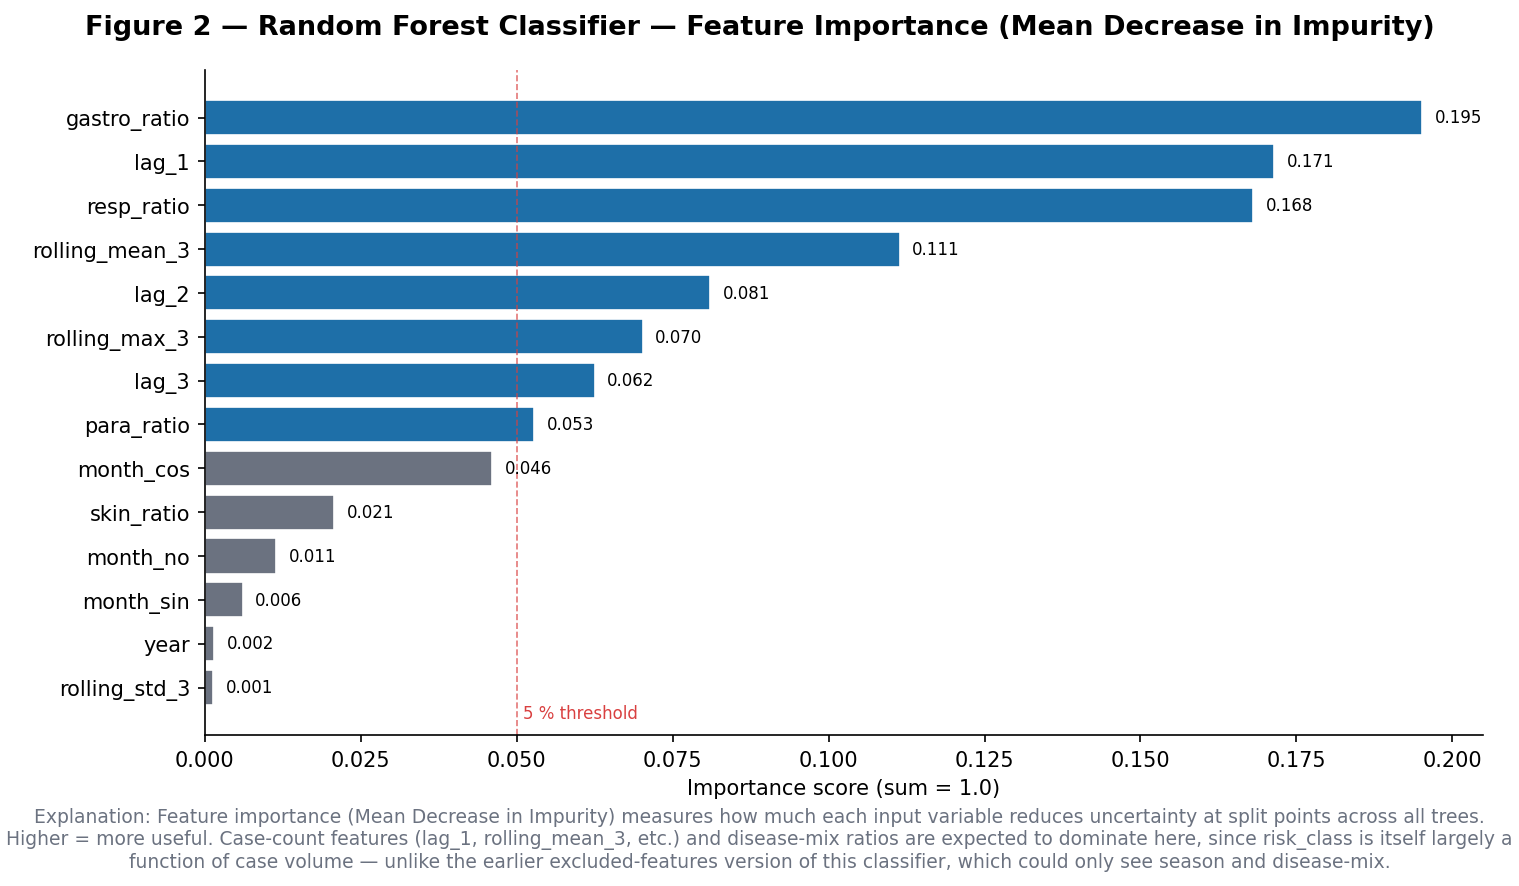
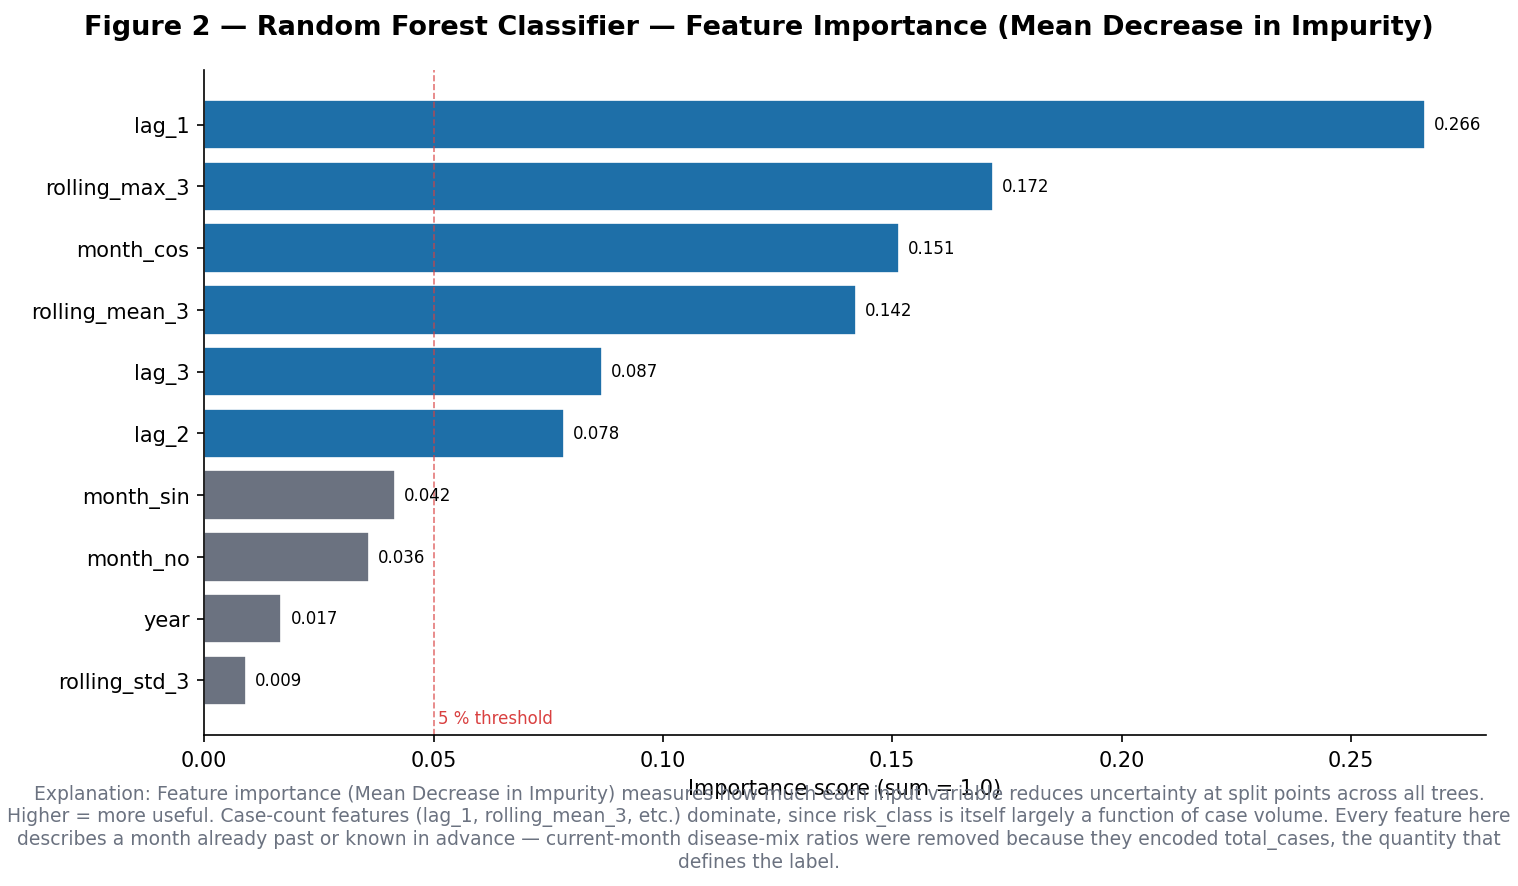
Stop the risk classifier reading its own answer
The classifier scored a perfect 100.0% held-out, which was target leakage
rather than a result. skin_ratio/para_ratio/resp_ratio/gastro_ratio are
current-month category counts divided by total_cases, and risk_class is
defined as a band on total_cases. Four ratios over one shared small-integer
denominator encode that denominator, so the model could reconstruct the label
from its own inputs. Ablation: those four features ALONE scored 99.4%,
against a 67.7% majority-class baseline.

The inflated score was not the worst of it. predict_risk() carries the mix
ratios forward unchanged when scoring a future month, because next month's
mix is unknowable -- so 43.7% of the decision weight was a month stale at the
moment of prediction, more than lag_1, the feature the ARIMA forecast
actually updates. A barangay coming off a heavy month handed the classifier a
high-volume fingerprint: measured across the barangays with a resolvable flip
point, it fired High at a forecast of 12-15, and the threshold moved per
barangay according to whatever last month's mix happened to be. The band
definition puts High at 16. Without those features the flip lands on 16 in
every barangay measured, so two barangays with the same forecast now get the
same label.

Held-out accuracy is 97.2%. Lagging the ratios by a month instead of dropping
them was tried and came out slightly worse (97.1%), so they were carrying
leaked answer rather than signal.
[…]

diff --git a/api/analytics/arima_service.py b/api/analytics/arima_service.py
@@ -1,13 +1,22 @@
 """
-BVetter Analytics Backend — v3.2 (RF-as-classifier realignment applied to v3.1)
+BVetter Analytics Backend — v3.3 (leaked features removed from the classifier)
 =======================================================================
-Changes from v3.1:
+Changes from v3.2:
+  MODEL-3  : The four disease-mix ratio features are removed from
+             FEATURE_COLS. They were current-month category counts over
+             total_cases, and risk_class is a band on total_cases, so the
+             classifier could reconstruct the label from its own inputs --
+             it scored a perfect 100.0% held-out, and those four features
+             alone scored 99.4% against a 67.7% baseline. Held-out accuracy
+             is now 97.2%, and the High threshold lands on the band
+             definition instead of firing early. See FEATURE_COLS.
+Changes from v3.1 (retained):
   MODEL-1  : All-disease risk classification is a RandomForestClassifier again
              (it started as one, was replaced with a rule-based threshold after
              a real bug -- see get_all_disease_models() for the full history).
-             This version includes case-count features in training, which the
-             buggy version deliberately excluded; that's what caused the bug,
-             not the idea of a classifier itself.
+             This version includes past-only case-count features in training,
+             which the buggy version deliberately excluded; that's what caused
+             the bug, not the idea of a classifier itself.
   MODEL-2  : RandomForestRegressor removed entirely, from both the all-disease
              and disease-specific pipelines. It never actually produced a live
              forecast (RF-for-monthly was built, benchmarked poorly, and
@@ -592,11 +601,34 @@ def vaccination_forecast_barangay():
 # training this time, unlike an earlier version of this same classifier)
 # ════════════════════════════════════════════════════════════════════════
 
+# Every feature here describes months BEFORE the one being classified:
+# lag_1/2/3 and the rolling stats are all .shift(1) (see _add_features), and
+# the calendar terms are known in advance.
+#
+# skin_ratio / para_ratio / resp_ratio / gastro_ratio used to be here and were
+# removed. They are computed from the CURRENT month's category counts over
+# total_cases -- and risk_class is defined as a band on total_cases. Four
+# ratios sharing one small-integer denominator encode that denominator, so the
+# classifier could reconstruct the label from its own inputs. Measured: those
+# four features alone scored 99.4% and the full set scored a perfect 100.0%,
+# against a 67.7% majority-class baseline.
+#
+# The damage was not only the inflated score. predict_risk() carries the mix
+# ratios forward unchanged for a future month (next month's mix is unknowable),
+# so 43.7% of the decision weight was one month stale at prediction time --
+# more than lag_1, the one feature the ARIMA forecast actually updates. A
+# barangay coming off a heavy month handed the model a high-volume fingerprint
+# and got flagged High at a forecast of 12-15, where the band definition says
+# High starts at 16. Without them the flip lands on 16 in every barangay
+# measured, instead of varying by whatever last month's mix happened to be.
+#
+# Lagging the ratios by a month instead of dropping them was tried and scored
+# slightly worse than removing them outright (97.1% against 97.7%), so the
+# signal was carrying leaked answer rather than real predictive weight.
 FEATURE_COLS = [
     "lag_1", "lag_2", "lag_3",
     "rolling_mean_3", "rolling_max_3", "rolling_std_3",
     "month_sin", "month_cos", "month_no", "year",
-    "skin_ratio", "para_ratio", "resp_ratio", "gastro_ratio",
 ]
 
 _all_disease_models = {}
@@ -1036,22 +1068,31 @@ def get_all_disease_models():
         {FEATURE_COLS[i]: round(float(v), 4) for i, v in enumerate(rf_cls.feature_importances_)}.items(),
         key=lambda x: x[1], reverse=True))
 
-    # This classifier started as exactly this design (case-count features
-    # included). It was later changed to deliberately EXCLUDE lag/rolling
-    # case-count features, on the theory that seeing them let it trivially
-    # reconstruct risk_class and "inflate" accuracy to 100%. In practice,
-    # risk_class in the source data barely overlaps by case count (Low ~9,
-    # Medium 10-17, High 16-30) -- it IS essentially a threshold on volume,
-    # so hiding volume from the classifier didn't reduce overfitting, it
-    # removed the one signal that defines the label. Real-world result: a
-    # barangay with the highest case count in the whole dataset (Tiaong,
-    # consistently 21-30/month, always "High" in the source data) got
-    # classified "Low/stable" because the model could only see season +
-    # disease-mix, not volume. That version was replaced with a transparent
-    # threshold rule instead of fixing the actual cause. This version keeps
-    # the classifier, restores the case-count features, and keeps the
-    # stratified split + SMOTE (that part of the excluded-features design was
-    # never the problem -- the "Low" class really does only have ~6 rows).
+    # Feature history, because this has been wrong in both directions.
+    #
+    # v1 included the lag/rolling case-count features. v2 removed them, on the
+    # theory that seeing case counts let the model trivially reconstruct
+    # risk_class. That was the wrong cut: risk_class IS a band on volume, so
+    # hiding volume removed the one legitimate signal that defines the label,
+    # and Tiaong -- the highest-volume barangay in the dataset, always "High"
+    # in the source -- came out "Low/stable". v3 restored them.
+    #
+    # v3 still scored a perfect 100.0%, which was the real tell. The leak was
+    # never lag/rolling (those are .shift(1), strictly past). It was the four
+    # disease-mix ratios: current-month category counts over total_cases, and
+    # total_cases is what defines the label. Ablation confirmed it -- the four
+    # ratios ALONE scored 99.4%, against a 67.7% majority baseline.
+    #
+    # v4 (this one) keeps the past-only case-count features and drops the four
+    # ratios; see FEATURE_COLS for the measured effect on prediction
+    # calibration. Held-out accuracy is now 97.2% rather than a perfect score.
+    # The stratified split + SMOTE stay: that part of v2 was never the problem,
+    # the "Low" class really does have only ~6 rows.
+    #
+    # Low remains unlearnable and is reported rather than hidden: with 6 Low
+    # rows in 891, the held-out fold contains 1, and the model misses it
+    # (precision and recall both 0.0). No resampling fixes 6 real examples.
+    # Treat Low as undetected, not as detected-with-low-confidence.
     _all_disease_models = {
         "df": df, "classifier": rf_cls, "label_encoder": le,
         # Trust-gated frame (same rule ARIMA already uses -- see _arima_safe_frame)
@@ -1081,13 +1122,19 @@ def get_all_disease_models():
         "risk_note": (
             f"Risk classification is a RandomForestClassifier trained on "
             f"{len(df_cls)} risk_class-labeled rows from Barangay_Disease_Monthly, "
-            "including case-count features (lag_1/2/3, rolling stats) -- an earlier "
-            "version of this classifier excluded those features and, as a result, "
-            "misclassified Tiaong (the highest-volume barangay in the dataset) as "
-            "Low risk, because volume was the one signal hidden from it. Train/test "
-            "split is stratified by risk_class (not chronological), and SMOTE "
-            "oversampling is applied to the training fold only, because the Low "
+            "using past-only case-count features (lag_1/2/3 and rolling stats, all "
+            "shifted one month) plus calendar terms. An earlier version excluded the "
+            "case-count features entirely and misclassified Tiaong (the highest-volume "
+            "barangay in the dataset) as Low risk, because volume was the one signal "
+            "hidden from it; a later version added current-month disease-mix ratios "
+            "and scored a perfect 100%, which was target leakage -- those ratios are "
+            "category counts over total_cases, and total_cases defines the label. "
+            "Train/test split is stratified by risk_class (not chronological), and "
+            "SMOTE oversampling is applied to the training fold only, because the Low "
             f"class has only ~6 of {len(df_cls)} rows. Held-out accuracy: {accuracy_val}%. "
+            "The Low class is not detected at all (precision and recall both 0.0 on a "
+            "single held-out row) and should be read as undetected rather than as a "
+            "low-confidence detection. "
             f"Live rows from patient_visit_records ({n_db_rows} beyond the Excel "
             f"snapshot's latest month, {n_arima_db_rows} of those trusted into the "
             "ARIMA/SARIMA series -- see _arima_safe_frame) carry no risk_class in the "
@@ -1107,7 +1154,7 @@ def get_all_disease_models():
         # no model names or stats jargon.
         "risk_note_short": (
             "Case volume level is predicted by a trained Random Forest model from "
-            "each barangay's recent case history, seasonality, and disease mix. "
+            "each barangay's recent case history and the time of year. "
             "It measures how many cases to expect, not how severe they are."
         ),
     }
@@ -1190,8 +1237,15 @@ def _hybrid_predict_one_alldisease(
     # Future risk: shift lag_1/2/3, recompute rolling stats using the ARIMA
     # next-month forecast as the new lag_1, and advance the calendar features
     # one month -- the same feature-construction technique this classifier
-    # used historically for a not-yet-observed month. Disease-mix ratios are
-    # carried forward unchanged (unknown for a future month).
+    # used historically for a not-yet-observed month.
+    #
+    # Every feature is now either shifted or calendar-derived, so the whole
+    # row describes a month that has already happened or is known in advance.
+    # This used to also carry four current-month disease-mix ratios forward
+    # unchanged, because next month's mix is unknowable -- which left 43.7% of
+    # the decision weight one month stale, more than lag_1 itself, and pulled
+    # the High threshold down to a forecast of 12-15 when the band definition
+    # starts High at 16. Those features are gone; see FEATURE_COLS.
     fut_feat = cur_feat.copy()
     l1, l2, l3 = (FEATURE_COLS.index(c) for c in ("lag_1", "lag_2", "lag_3"))
     rm, rx, rs = (FEATURE_COLS.index(c) for c in ("rolling_mean_3", "rolling_max_3", "rolling_std_3"))

diff --git a/api/analytics/test_eval.py b/api/analytics/test_eval.py
@@ -153,13 +153,15 @@ ax2.spines[["top", "right"]].set_visible(False)
 
 fig.text(0.5, -0.1, (
     f"Explanation: trained on {models['trained_on']} risk_class-labeled rows (stratified "
-    "80/20 split, SMOTE-balanced training fold only) including case-count features "
-    "(lag_1/2/3, rolling stats). Accuracy near 100% is expected, not a red flag: "
-    "risk_class in the source data is itself close to a threshold on case volume, so a "
-    "model that can actually see volume should recover it reliably — the earlier version "
-    "of this same classifier scored much worse specifically because it was trained "
-    "*without* being allowed to see volume, which caused it to misclassify Tiaong (the "
-    "highest-volume barangay in the dataset) as Low risk. See risk_note for the full history."
+    "80/20 split, SMOTE-balanced training fold only) using past-only case-count features "
+    "(lag_1/2/3, rolling stats) and calendar terms. High accuracy is expected here because "
+    "risk_class is itself close to a threshold on case volume, and a model that sees prior "
+    "months' volume should recover it — but a PERFECT score would be a red flag, and was: "
+    "an earlier feature set included current-month disease-mix ratios, which encode "
+    "total_cases and therefore the label itself, and scored 100%. The Low class is not "
+    "detected at all: 6 of the labelled rows are Low, leaving 1 in the held-out fold, so "
+    "its precision and recall are 0.0 and should be read as undetected rather than as a "
+    "weak detection. See risk_note for the full history."
 ), ha="center", fontsize=8.5, color=BRAND_GRAY, wrap=True, transform=fig.transFigure)
 
 plt.tight_layout()
@@ -206,10 +208,11 @@ ax.spines[["top", "right"]].set_visible(False)
 fig.text(0.5, -0.05, (
     "Explanation: Feature importance (Mean Decrease in Impurity) measures how much "
     "each input variable reduces uncertainty at split points across all trees. "
-    "Higher = more useful. Case-count features (lag_1, rolling_mean_3, etc.) and "
-    "disease-mix ratios are expected to dominate here, since risk_class is itself "
-    "largely a function of case volume — unlike the earlier excluded-features version "
-    "of this classifier, which could only see season and disease-mix."
+    "Higher = more useful. Case-count features (lag_1, rolling_mean_3, etc.) dominate, "
+    "since risk_class is itself largely a function of case volume. Every feature here "
+    "describes a month already past or known in advance — current-month disease-mix "
+    "ratios were removed because they encoded total_cases, the quantity that defines "
+    "the label."
 ), ha="center", fontsize=9, color=BRAND_GRAY, wrap=True, transform=fig.transFigure)
 
 plt.tight_layout()
